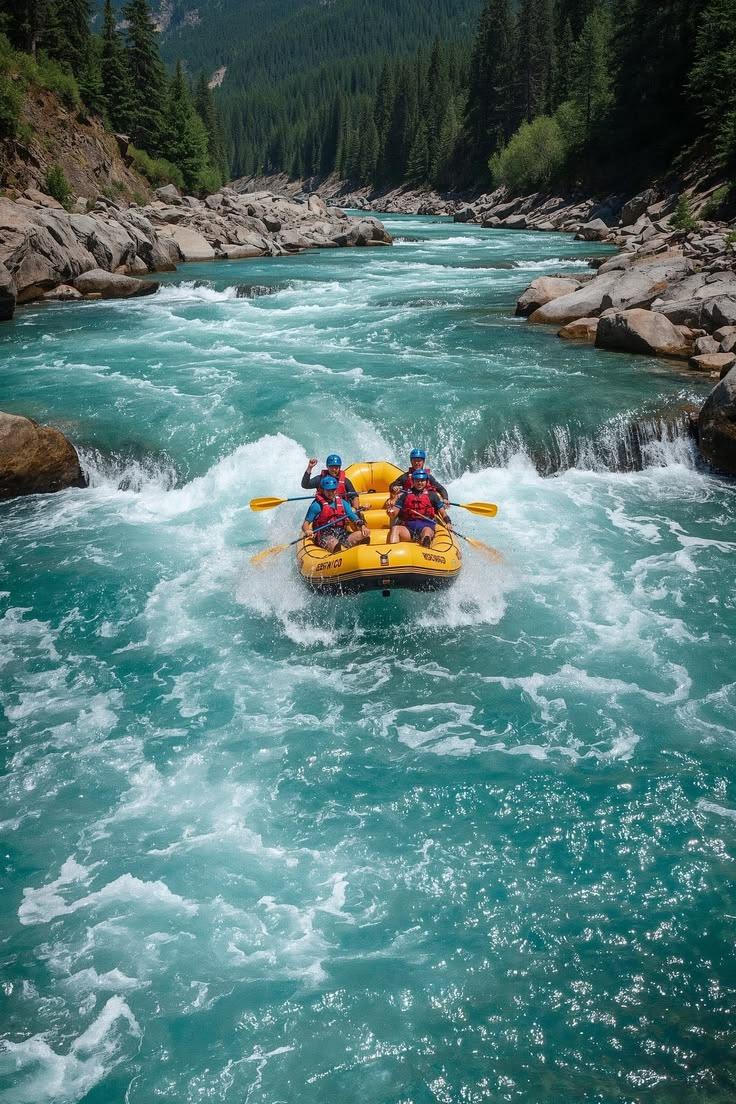
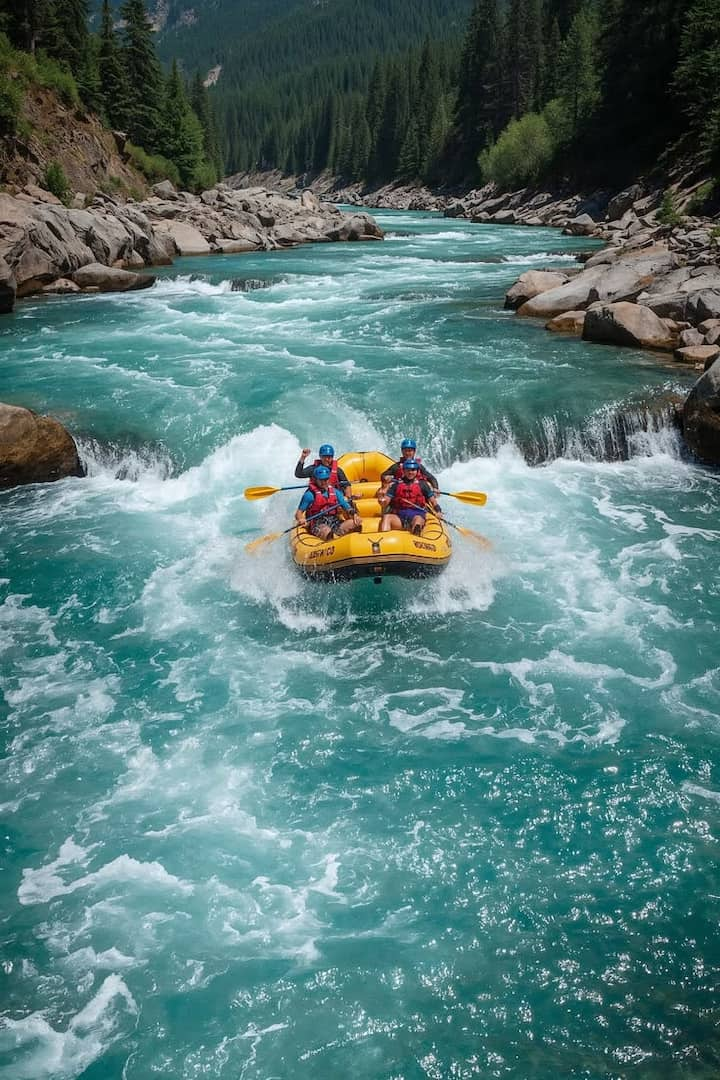
about page

diff --git a/wwr/styles/rafting.css b/wwr/styles/rafting.css
@@ -1,3 +1,11 @@
+:root {
+    --primary-color: #003d7a;
+    --accent1-color: #333;
+    --accent2-color: #d4a574;
+    --heading-font: Arial, sans-serif;
+    --body-font: Arial, sans-serif;
+}
+
 * {
     margin: 0;
     padding: 0;
@@ -15,6 +23,8 @@ main,
 footer {
     width: 840px;
     margin: 0 auto;
+    background-color: #c8b6db;
+    text-align: center;
 }
 
 h1,
